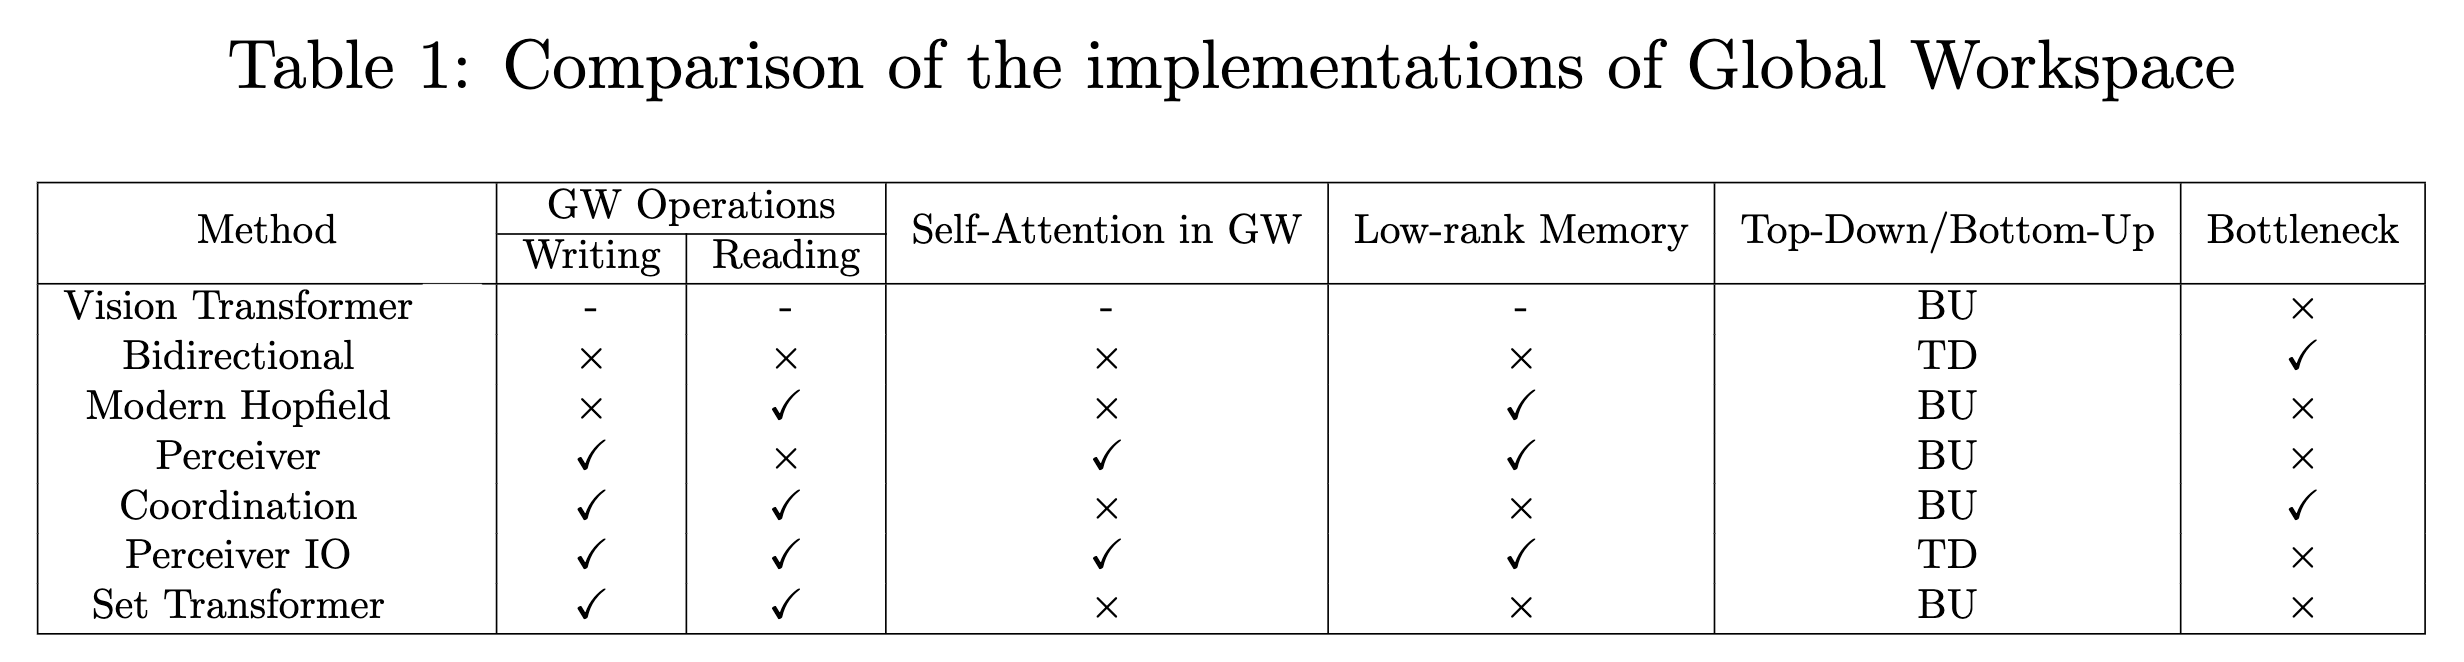
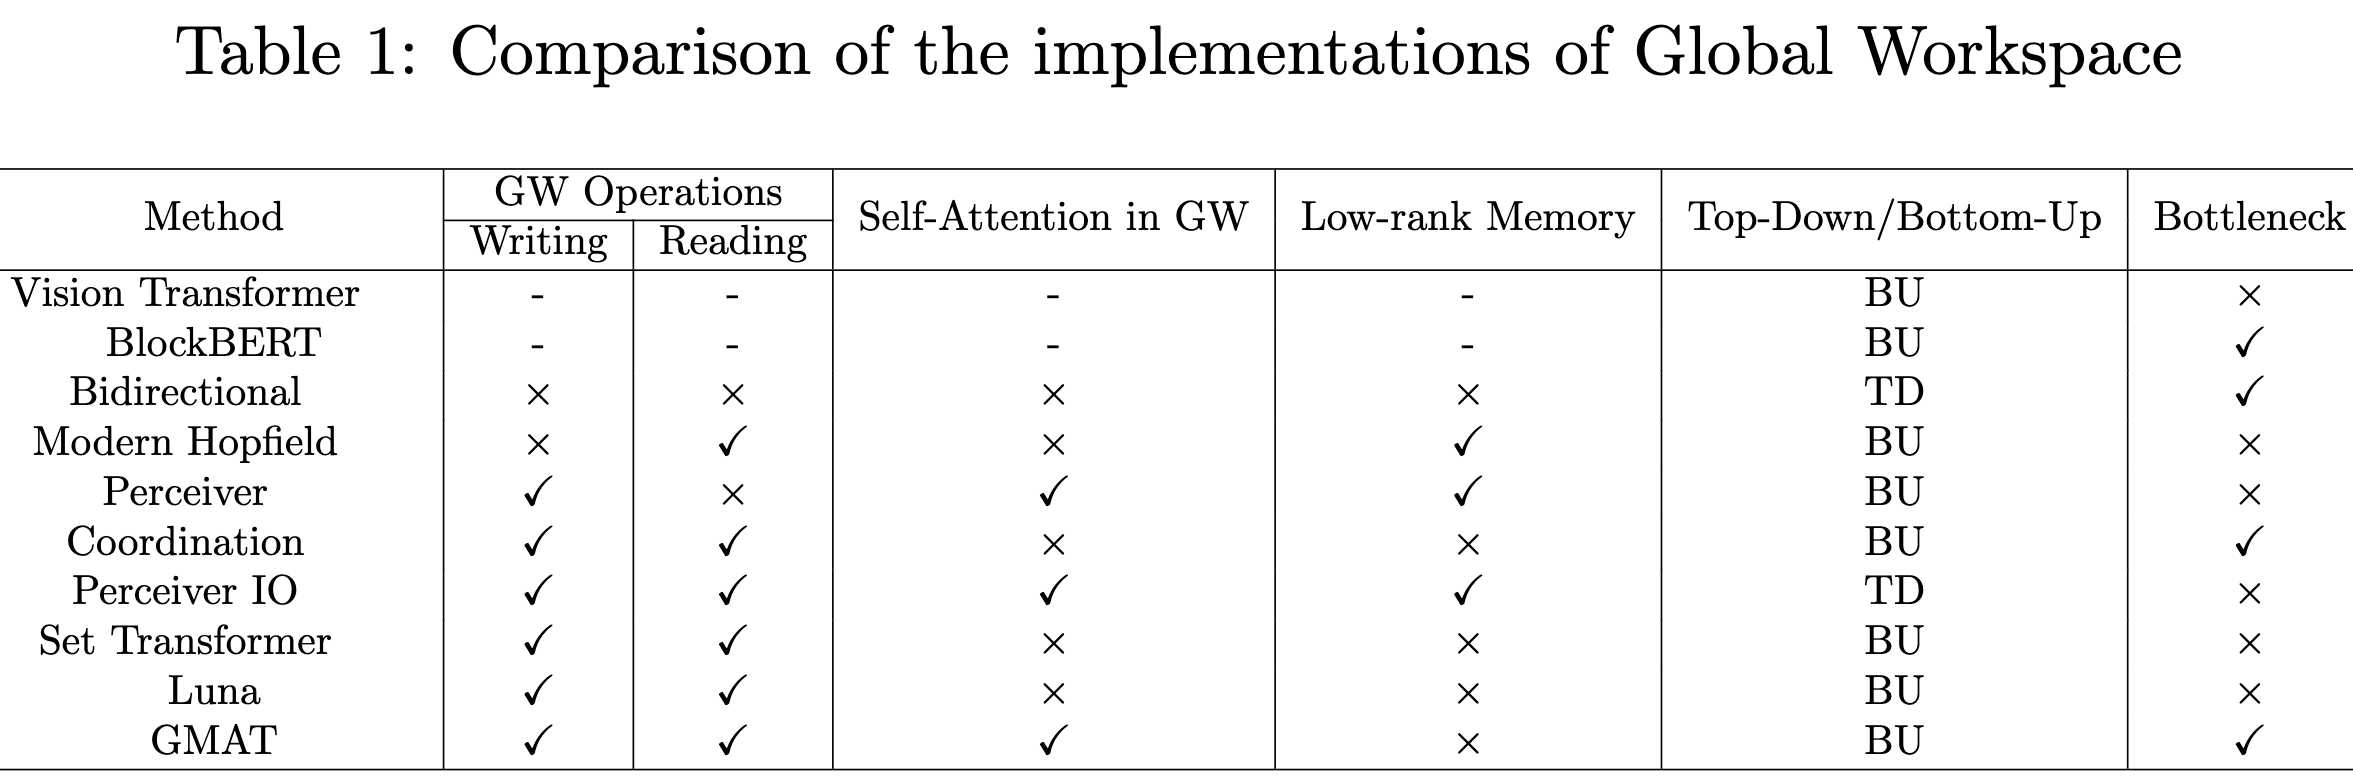
update blog

diff --git a/blog-7-21-23.html b/blog-7-21-23.html
@@ -155,7 +155,7 @@ Created by <a href="https://yuweisunn.github.io/", target="_blank", style="text-
 
 <br>
 <h3>Attention Mechanism</h3>
-The self-attention in Transformer employs the multi-head attention mechanism in which each head maps a query and a set of key-values pairs to an output. The output in a single head is computed as a weighted sum of values according to the attention score computed by a function of the query with the corresponding key. These single-head outputs are then concatenated and again projected, resulting in the final values:
+<p>The self-attention in Transformer employs the multi-head attention mechanism in which each head maps a query and a set of key-values pairs to an output. The output in a single head is computed as a weighted sum of values according to the attention score computed by a function of the query with the corresponding key. These single-head outputs are then concatenated and again projected, resulting in the final values:</p>
 
 $$\mbox{Multi-head}(Q,K,V)=\mbox{Concat}(\mbox{head}^1,\dots,\mbox{head}^H)W^O,$$
 
@@ -165,10 +165,10 @@ $$\mathbf{A_S} = \mbox{Attention}(Q,K,V)=\mbox{softmax}(\frac{QK^T}{\sqrt{d}}),$
 
 $$\mathbf{A_R}=\mathbf{A_S}\,\mathbf{V},$$
 
-where $W^Q,W^K,W^V$ and $W^O$ are linear transformations for queries, keys, values and outputs. $\tilde{Q}= QW^{Q_i}$, $\tilde{K} = KW^{K_i}$, and $\tilde{V} = VW^{V_i}$. $d$ denotes the dimension of queries and keys in a single head. In self-attention, $Q = K = V$. However, this approach has a quadratic complexity $O(N^2)$ where $N$ denotes the number of tokens in an input sequence and can be computationally intensive. 
+<p>where $W^Q,W^K,W^V$ and $W^O$ are linear transformations for queries, keys, values and outputs. $\tilde{Q}= QW^{Q_i}$, $\tilde{K} = KW^{K_i}$, and $\tilde{V} = VW^{V_i}$. $d$ denotes the dimension of queries and keys in a single head. In self-attention, $Q = K = V$. However, this approach has a quadratic complexity $O(N^2)$ where $N$ denotes the number of tokens in an input sequence and can be computationally intensive. </p>
 
 
-<br><br><br>
+<br>
 <h3>Perceiver <a href="#footnote-3" style="text-decoration: none;">[3]</a></h3>
 
 <figure>
@@ -216,20 +216,71 @@ where $W^Q,W^K,W^V$ and $W^O$ are linear transformations for queries, keys, valu
 where \(H = \text{LayerNorm}(X + \text{Multihead}(X, Y, Y, \Theta))\), \(\text{rFF}\) is a feed forward layer, and \(\text{LayerNorm}\) is layer normalization. Then, the ISAB is defined as $\text{ISAB}(X) = \text{MAB}(X, H) \in \mathbb{R}^{n \times d}$, where \(H = \text{MAB}(I, X) \in \mathbb{R}^{m \times d}\). Moreover, the self-attention is realized by a Set Attention Block (SAB): $\text{SAB}(X) = \text{MAB}(X, X)$.</p>
 
 
+
 <br>
-<h3>Energy Transformer with Hopfield <a href="#footnote-6" style="text-decoration: none;">[6]</a></h3>
+<h3>Linear Unified Nested Attention <a href="#footnote-6" style="text-decoration: none;">[6]</a></h3>
+
+<figure>
+  <img src="blog/7-21-23/luna.png" style="width: 50%;margin-left: auto; margin-right: auto;display: block;" class="center">
+  <br>
+  <figcaption>Fig.5 - Architecture of the Linear Unified Nested Attention.</figcaption>
+</figure>
+
+
+<p>Linear Unified Nested Attention (Luna) aims to solve the quadratic complexity problem of full attention. Luna decouples the regular attention function into two nested attention operations, both of which have linear efficiency, with an extra input that is similar to the inducing points in the Set Transformer (Figure 5). Different from the Set Transformer, Luna is used as a drop-in-replacement for the regular attention in Transformer blocks. </p>
+
+<p>Let $P\in \mathbb{R}^{l\times d}$ be the extra input sequence and $X\in \mathbb{R}^{m\times d}$ be the context sequence. Then, we can obtain the output of the pack attention $Y_P\in \mathbb{R}^{l\times d} = \text{Attn}(P,X)$. The complexity of pack attention is $O(lm)$, which is linear with respect to $m$. Moreover, to unpack the sequence back to the length of the original query sequence $X$, Luna leverages its second attention $Y_X = \text{Attn}(X, Y_P)$, where the complexity is $O(ln)$. Additionally, the $P$ is initialized as learnable positional embeddings.</p>
+
+
+<br>
+<h3>Global Memory Augmentation for Transformers <a href="#footnote-7" style="text-decoration: none;">[7]</a></h3>
+
+<figure>
+  <img src="blog/7-21-23/gmat.png" style="width: 70%;margin-left: auto; margin-right: auto;display: block;" class="center">
+  <br>
+  <figcaption>Fig.6 - Architecture of the Global Memory Augmentation for Transformers (GMAT). (a) GMAT: For each attention head, tokens of the main sequence $X$ use sparse attention for attending to $X$, and dense attention for attending to the global memory. The memory attends to all tokens using dense attention. (b) chunked self-attention: tokens of the main sequence use dense attention for attending to their respective chunk and global memory, but do not attend to other chunks. (c) GMAT for sequence compression.</figcaption>
+</figure>
+
+<p>Global Memory Augmentation for Transformers (GMAT) (Figure 6) employ a small global memory which is read and updated by all the positions using vanilla attention. A list of $M$ memory tokens is prefixed to every input sequence (of length $L$) ($M \ll L$). At each multi-head attention layer, for each head, the $L$ tokens attend to other tokens of the main sequence using any sparse variant of attention, whereas they attend to the $M$ memory tokens using dense attention. A sparse attention variant computes a few entries of $QK^T$, masking out the rest. For a binary mask $B \in \{0, -\infty\}^{L_Q\times L_K}$, $\text{SparseAttention}(Q,K,V,B)=\text{softmax}(\frac{QK^T}{\sqrt{d}}+B)V$, where $L_Q$ and $L_K$ are the number of entries for Q and K. Moreover, the $M$ memory tokens attend to all $M+L$ tokens using dense attention. </p>
+
+<p>Consider a $N$-layer GMAT with a memory of size $M$. Given a length $L$ input sequence, let $W$ and $P$ denote its word and positional embeddings. First, the bottom $N_c$ layers are applied for compressing the entire information of the input sequence into just $M$ memory vectors. The next $N_m$ layers are then applied only on the $M$ memory vectors resulting in richer representations. This length $M$ sequence is restored to the original length $M+L$ by concatenating the positional embeddings $P$ and, finally, the remaining $N_d$ layers are applied for decompressing the information packed into the final representations, where the positional embeddings $P$ act as queries for restoring the original input information. </p>
+
+
+<br>
+<h3>Blockwise Multi-head Attention <a href="#footnote-8" style="text-decoration: none;">[8]</a></h3>
+
+<figure>
+  <img src="blog/7-21-23/block.png" style="width:60%;margin-left: auto; margin-right: auto;display: block;" class="center">
+  <br>
+  <figcaption>Fig.7 - Architecture of Blockwise Multi-head Attention, which acts as building blocks of BlockBERT.</figcaption>
+</figure>
+
+
+<p>Blockwise Multi-head Attention (Figure 7) introduces a sparse block masking matrix $M$ to the $N\times N$ attention matrix. Each masking matrix is determined by a permutation $\pi = \{1,2,...,n\}$. Blockwise sparsity captures both local and long-distance dependencies in a memory efficiency way, which is crucial for long-document understanding tasks. The sparse block matrix $M$ is defined by</p>
+
+$$ M_{ij} =
+\begin{cases}
+    1 & \text{if } \pi(\lfloor\frac{(i-1)n}{N} + 1\rfloor) = \lfloor\frac{(j-1)n}{N} + 1\rfloor, \\
+    0 & \text{otherwise}.
+\end{cases}
+$$
+
+
+
+<br>
+<h3>Energy Transformer with Hopfield <a href="#footnote-9" style="text-decoration: none;">[9]</a></h3>
 
 
 <figure>
   <img src="blog/7-21-23/et.png" style="width: 40%;margin-left: auto; margin-right: auto;display: block;" class="center">
   <br>
-  <figcaption>Fig.5 - Scheme of the ET block.</figcaption>
+  <figcaption>Fig.8 - Scheme of the ET block.</figcaption>
 </figure>
 
 
-<p>In a Transformer block, there are four fundamental operations: attention, feed-forward multi-layer perceptron (MLP), residual connection, and layer normalization. Energy Transformer (ET) replaces the sequence of feed forward transformer blocks with a single recurrent Associative Memory model. The ET block consists of both a Multi-Head Attention module and a Hopfield Network module for attention (Figure 5).</p> 
+<p>In a Transformer block, there are four fundamental operations: attention, feed-forward multi-layer perceptron (MLP), residual connection, and layer normalization. Energy Transformer (ET) replaces the sequence of feed forward transformer blocks with a single recurrent Associative Memory model. The ET block consists of both a Multi-Head Attention module and a Hopfield Network module for attention (Figure 8).</p> 
 
-<p>In particular, the energy of the Multi-Head Attention module has shown a resemblance to Hopfield networks in recent studies  <a href="#footnote-7" style="text-decoration: none;">[7]</a>, which is defined as:
+<p>In particular, the energy of the Multi-Head Attention module has shown a resemblance to Hopfield networks in recent studies  <a href="#footnote-10" style="text-decoration: none;">[10]</a>, which is defined as:
 $$E^{\text{ATT}}=-\frac{1}{\beta}\underset{h}{\sum}\underset{C}{\sum}\text{log}(\underset{B\neq C}{\sum}\text{exp}(\beta\underset{\alpha}{\sum}K_{\alpha h B}Q_{\alpha h C})),$$</p>
 
 $$K_{\alpha h B}=\underset{j}{\sum}W_{\alpha h j}^K g_{j B},$$
@@ -241,12 +292,12 @@ where $\alpha$ denotes elements of the internal space, $h$ denotes different hea
 $$E^{\text{HN}}=-\frac{1}{2}\underset{B,\mu}{\sum}r(\underset{j}{\sum}\xi_{\mu j}g_{j B})^2,$$
 where $\xi_{\mu j}$ is a set of learnable weights (memories in the Hopfield Network), and $r(\cdot)$ is an activation function. It is a classical continuous Hopfield if the activation function grows slowly (e.g., ReLU), or a modern continuous Hopfield Network if the activation function is sharply peaked around the memories (e.g. power or softmax).</p>
 
-<p>ET aims to tackle image reconstruction (Figure 6) where half of these tokens were masked by replacing them with a learnable MASK token. A distinct learnable position encoding vector was added to each token. The ET block then processes all tokens recurrently for $T$ steps. The token representations after $T$ steps are passed to a linear decoder (consisting of a layer norm and an affine transformation). The loss function is the MSE loss on the occluded patches. ET operates akin to a global workspace, drawing patches towards the global minimum within the system.</p>
+<p>ET aims to tackle image reconstruction (Figure 9) where half of these tokens were masked by replacing them with a learnable MASK token. A distinct learnable position encoding vector was added to each token. The ET block then processes all tokens recurrently for $T$ steps. The token representations after $T$ steps are passed to a linear decoder (consisting of a layer norm and an affine transformation). The loss function is the MSE loss on the occluded patches. ET operates akin to a global workspace, drawing patches towards the global minimum within the system.</p>
 
 <figure>
   <img src="blog/7-21-23/et2.png" style="width: 80%;margin-left: auto; margin-right: auto;display: block;" class="center">
   <br>
-  <figcaption>Fig.6 - The Attention (ATTN) block contributes general structure information to the masked patches at earlier time steps, whereas the Hopfield Network (HN) significantly sharpens the quality of the masked patches at later time steps.</figcaption>
+  <figcaption>Fig.9 - The Attention (ATTN) block contributes general structure information to the masked patches at earlier time steps, whereas the Hopfield Network (HN) significantly sharpens the quality of the masked patches at later time steps.</figcaption>
 </figure>
 
 
@@ -265,7 +316,10 @@ where $\xi_{\mu j}$ is a set of learnable weights (memories in the Hopfield Netw
 <p id="footnote-3">[3] Andrew Jaegle, Felix Gimeno, Andy Brock, and et al. Perceiver: General perception with iterative attention. In ICML, volume 139 of Proceedings of Machine Learning Research, pages 4651–4664. PMLR, 2021.</p>
 <p id="footnote-4">[4] Andrew Jaegle, Sebastian Borgeaud, Jean-Baptiste Alayrac, and et al. Perceiver IO: A general architecture for structured inputs & outputs. In ICLR. 2022.</p>
 <p id="footnote-5">[5] Juho Lee, Yoonho Lee, Jungtaek Kim, and et al. Set transformer: A framework for attention-based permutation-invariant neural networks. In ICML, volume 97 of Proceedings of Machine Learning Research, pages 3744–3753. PMLR, 2019.</p>
-<p id="footnote-6">[6] Benjamin Hoover, Yuchen Liang, Bao Pham, et al. Energy transformer. CoRR, abs/2302.07253, 2023</p>
-<p id="footnote-7">[7] Hubert Ramsauer, Bernhard Schafl, Johannes Lehner, et al. Hopfield networks is all you need. ICLR, 2021.</p>
+<p id="footnote-6">[6] Xuezhe Ma, Xiang Kong, Sinong Wang, et al. Luna: Linear unified nested attention. NeurIPS, 2441–2453, 2021.</p>
+<p id="footnote-7">[7] Ankit Gupta and Jonathan Berant. GMAT: global memory augmentation for transformers. arXiv:2006.03274, 2020.</p>
+<p id="footnote-8">[8] Jiezhong Qiu, Hao Ma, Omer Levy, and et al. Blockwise self-attention for long document understanding. EMNLP, 2020.</p>
+<p id="footnote-9">[9] Benjamin Hoover, Yuchen Liang, Bao Pham, et al. Energy transformer. arXiv:2302.07253, 2023.</p>
+<p id="footnote-10">[10] Hubert Ramsauer, Bernhard Schafl, Johannes Lehner, et al. Hopfield networks is all you need. ICLR, 2021.</p>
 <br><br>
 </html>
